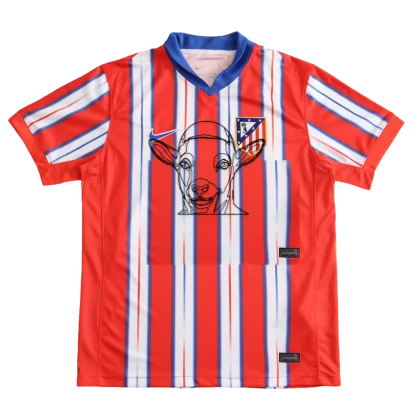
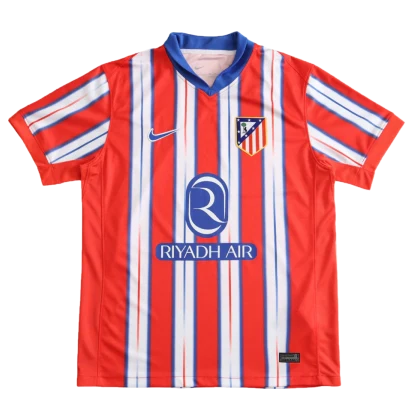
Vestiário: camisas começam de frente (sem bode); ao passar o mouse viram e mostram o bode nas costas

Changed region(s): [[0.3405, 0.2786, 0.7119, 0.65]]

diff --git a/src/styles/global.css b/src/styles/global.css
@@ -884,12 +884,12 @@ header.top #todayPill{grid-column:3;justify-self:end}
 .jstage{display:block;position:relative;aspect-ratio:1;transform-style:preserve-3d;transition:transform .55s cubic-bezier(.3,1.4,.5,1)}
 .jersey:hover .jstage,.jersey:focus-visible .jstage{transform:rotateY(180deg) scale(1.06)}
 .jface{position:absolute;inset:0;width:100%;height:100%;backface-visibility:hidden;-webkit-backface-visibility:hidden}
-.jface.front{transform:rotateY(180deg);object-fit:contain}
+.jface.front{object-fit:contain}
 .jface.fback{display:block}
-.jface.fback{object-fit:contain}
+.jface.fback{object-fit:contain;transform:rotateY(180deg)}
 .jersey .tag{position:absolute;left:auto;top:30px;right:12px;z-index:3}
 .jersey .stamp{position:absolute;right:auto;left:50%;top:16px;transform:translateX(-50%) scale(.7);z-index:3}
-.jersey.won .fback{filter:drop-shadow(0 0 6px var(--green))}.jersey.lost .fback{filter:drop-shadow(0 0 6px var(--red))}.jersey.scored .fback{filter:drop-shadow(0 0 6px var(--yellow))}
+.jersey.won .front{filter:drop-shadow(0 0 6px var(--green))}.jersey.lost .front{filter:drop-shadow(0 0 6px var(--red))}.jersey.scored .front{filter:drop-shadow(0 0 6px var(--yellow))}
 .jbox{position:relative;max-width:460px}
 .jx{position:absolute;top:8px;right:12px;font-size:28px;line-height:1;color:var(--muted);background:none;border:0;cursor:pointer;z-index:2}
 .jart{height:150px;background:var(--bg2);border-radius:12px;display:grid;place-items:center;overflow:hidden;margin-bottom:12px}

diff --git a/tools/kits_pairs.py b/tools/kits_pairs.py
@@ -65,13 +65,13 @@ for i,club in enumerate(ORDER):
     box,mode,tb,col,stroke,berase=D[club];TR={"botafogo":[(170,0,262,28)]}
     fa=cv2.cvtColor(cv2.imread(f"{sys.argv[1]}/{club}_f.png",cv2.IMREAD_UNCHANGED),cv2.COLOR_BGRA2RGBA)
     ba=cv2.cvtColor(cv2.imread(f"{sys.argv[1]}/{club}_b.png",cv2.IMREAD_UNCHANGED),cv2.COLOR_BGRA2RGBA)
-    if box:fa=erase(fa,box,mode)
     for t0,t1,t2,t3 in TR.get(club,[]):fa[t1:t3,t0:t2,3]=0
     for b,m in berase:ba=erase(ba,b,m)
     ys,xs=np.where(ba[...,3]>128);y0,y1,x0,x1=ys.min(),ys.max(),xs.min(),xs.max();h,w=y1-y0,x1-x0
     gw=w*0.30;gh=gw*745/916                      # mesmo tamanho na frente e nas costas
-    for tag,a in (("f",fa),("b",ba)):
-        cx=center_x(a,y0,h);cy=y0+h*(0.58 if (club=="sao-paulo" and tag=="f") else 0.38)   # São Paulo: escudo no centro do peito
+    Image.fromarray(fa).save(f"src/assets/kit-{club}.webp","WEBP",quality=88,method=4)   # frente: a camisa real, sem alteração
+    for tag,a in (("b",ba),):
+        cx=center_x(a,y0,h);cy=y0+h*0.38
         dark=np.median(cv2.cvtColor(a[int(cy-gh/2):int(cy+gh/2),int(cx-gw/2):int(cx+gw/2),:3],cv2.COLOR_RGB2GRAY))<85
         out=finish(a,[(BODE,cx,cy,gw,gh,None,"g")],INK,None,club in CALM,dark)
         out.save(f"src/assets/{'kit' if tag=='f' else 'kitback'}-{club}.webp","WEBP",quality=88,method=4)
